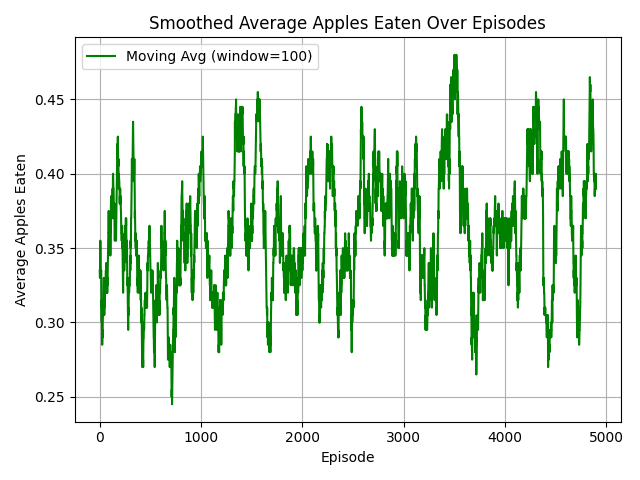
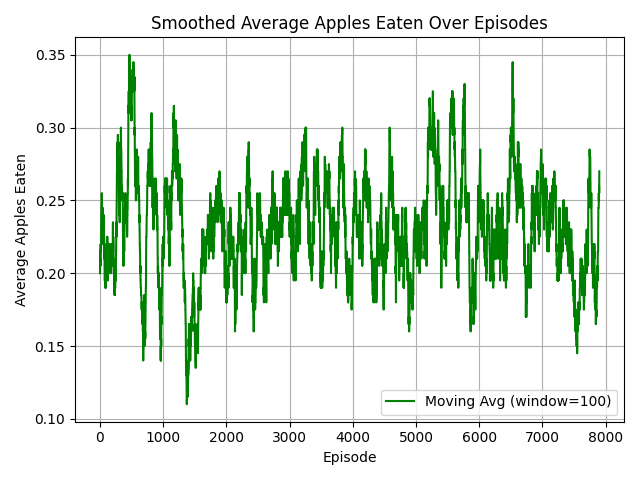
Add graphs

diff --git a/src/scripts/ctde_training.py b/src/scripts/ctde_training.py
@@ -1,4 +1,5 @@
 from statistics import mean
+
 import matplotlib
 import numpy as np
 
@@ -6,7 +7,6 @@ matplotlib.use("Agg")
 import matplotlib.pyplot as plt
 
 from environment import GridFoodSearchEnv
-from terrain_generator import print_terrain
 from ctde_q_agent import CTDEQLearningAgent
 
 env = GridFoodSearchEnv({"num_agents": 2, "width": 10, "height": 10})
@@ -15,7 +15,7 @@ env.set_render_mode("human")
 agents = {agent_id: CTDEQLearningAgent(agent_id, env.action_spaces[agent_id])
           for agent_id in env.agents}
 
-n_episodes = 5000
+n_episodes = 8000
 
 reward_history = {agent_id: [] for agent_id in env.agents}
 apples_eaten_history = {agent_id: [] for agent_id in env.agents}
@@ -86,7 +86,6 @@ for episode in range(n_episodes):
         print(f"Average Apples Eaten (last 100): {avg_apples}")
         print(f"Avg Steps Before Apple (last 100): {avg_steps}")
         agent_positions = [(env.my_agents[aid].x, env.my_agents[aid].y) for aid in env.agents]
-        print_terrain(env.tiles, env.width, env.height, agent_positions)
 
 avg_rewards = [
     sum(reward_history[aid][i] for aid in env.agents) / len(env.agents)

diff --git a/src/scripts/create_graph_from_ppo.py b/src/scripts/create_graph_from_ppo.py
@@ -1,0 +1,28 @@
+import pandas as pd
+import matplotlib.pyplot as plt
+
+# Load the CSV file, skipping blank lines
+file_path = "./progress_extended.csv"
+df = pd.read_csv(file_path, skip_blank_lines=True)
+
+# Drop completely empty rows if any slipped through
+df.dropna(how="all", inplace=True)
+
+# Extract the reward column
+reward_col = "env_runners/episode_return_mean"
+rewards = df[reward_col].dropna().values
+
+# Apply a moving average smoothing
+window = 10
+avg_rewards_smooth = pd.Series(rewards).rolling(window=window).mean()
+
+# Plot the smoothed rewards
+plt.figure()
+plt.plot(range(len(avg_rewards_smooth)), avg_rewards_smooth, label=f"Moving Avg (window={window})", color="black")
+plt.xlabel("Episode")
+plt.ylabel("Average Reward")
+plt.title("Smoothed Average Reward Over Episodes")
+plt.legend()
+plt.grid(True)
+plt.tight_layout()
+plt.savefig("avg_reward_smooth_ppo.png")

diff --git a/src/scripts/main.py b/src/scripts/main.py
@@ -14,7 +14,7 @@ from visualizer import visualize_policy
 
 parser = add_rllib_example_script_args(
     default_reward=10000,
-    default_iters=20,
+    default_iters=100,
     default_timesteps=100000
 )
 
